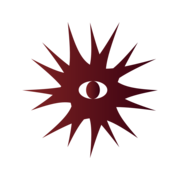
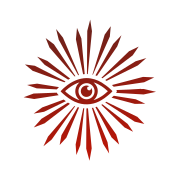
Popravak favicona

Changed region(s): [[0.1389, 0.1111, 0.8889, 0.8889], [0.75, 0.75, 0.7778, 0.7778]]

diff --git a/resources/views/layouts/app.blade.php b/resources/views/layouts/app.blade.php
@@ -13,8 +13,10 @@
     <link rel="icon" type="image/png" sizes="32x32" href="/img/favicon-32x32.png">
     <link rel="icon" type="image/png" sizes="16x16" href="/img/favicon-16x16.png">
     <link rel="manifest" href="/img/site.webmanifest">
-    <link rel="mask-icon" href="/img/safari-pinned-tab.svg" color="#5bbad5">
-    <meta name="msapplication-TileColor" content="#da532c">
+    <link rel="mask-icon" href="/img/safari-pinned-tab.svg" color="#ff0000">
+    <link rel="shortcut icon" href="/img/favicon.ico">
+    <meta name="msapplication-TileColor" content="#a00000">
+    <meta name="msapplication-config" content="/img/browserconfig.xml">
     <meta name="theme-color" content="#ffffff">
 
     <!-- Fonts -->
